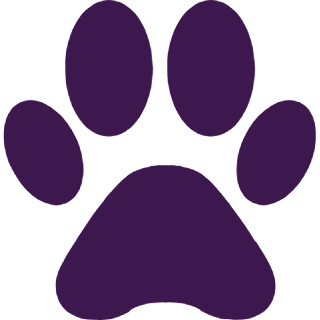
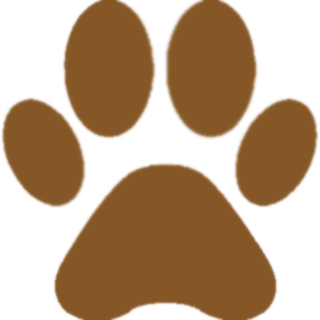
ADD: localizacao , Faixa, Services components

diff --git a/src/components/Servicos/index.jsx b/src/components/Servicos/index.jsx
@@ -1,0 +1,58 @@
+import banho from "../../assets/banho.png";
+import creche from "../../assets/creche.png";
+import dogwalker from "../../assets/dogwalker.png";
+import loja from "../../assets/loja.png";
+import veterinario from "../../assets/veterinario.png";
+import Styles from "./Servicos.module.css";
+const Servico = () => {
+  return (
+    <div className="padding">
+      <h3>Alguns dos nossos serviços</h3>
+
+      <div className={Styles.boxServicos}>
+        <ul type="circle">
+          <li>
+            <span className="destaque">Itens para seu animal de estimação</span>
+            : Descubra nossa seleção de alta qualidade com alimentos nutritivos,
+            brinquedos interativos e acessórios sofisticados em nossa loja.
+          </li>
+          <li>
+            <span className="destaque">Spa para pets</span>: Desfrute de
+            serviços como banho, hidratação, tosa higiênica, tosa especializada
+            para diferentes raças e outros tratamentos, realizados por
+            especialistas em parceria conosco.
+          </li>
+          <li>
+            <span className="destaque">Serviços veterinários 24 horas</span>:
+            Garantimos o bem-estar do seu fiel companheiro com consultas, exames
+            e vacinação administrados por profissionais veterinários
+            especializados.
+          </li>
+          <li>
+            <span className="destaque">Passeios com especialistas caninos</span>
+            : Se você está sem tempo para levar seu cachorro para passearda nós
+            da pet club não só garantem caminhadas, mas também trabalham na
+            correção de comportamentos e no ensino de comandos básicos.
+          </li>
+          <li>
+            <span className="destaque">Creche para pets</span>: Uma solução
+            personalizada para quem prefere não deixar seu animal de estimação
+            sozinho em casa durante o dia. Oferecemos diversão, cuidados
+            especiais e muito carinho!
+          </li>
+        </ul>
+      </div>
+
+      <div className={Styles.boxServicosImg}>
+        <img src={banho} alt="Banho e Tosa" title="Banho & Tosa" />
+
+        <img src={veterinario} alt="Veterinários" title="Veterinário 24h" />
+        <img src={dogwalker} alt="Passeio" title="Dog Walker" />
+        <img src={creche} alt="Creche" title="Creche Pet" />
+        <img src={loja} alt="loja" title="Produtos para seu pet Pet" />
+      </div>
+    </div>
+  );
+};
+
+export default Servico;

diff --git a/src/components/FaixaRoxa/index.jsx b/src/components/FaixaRoxa/index.jsx
@@ -1,0 +1,26 @@
+import FacebookIcon from "@mui/icons-material/Facebook";
+import InstagramIcon from "@mui/icons-material/Instagram";
+import WhatsAppIcon from "@mui/icons-material/WhatsApp";
+import Styles from "./FaixaRoxa.module.css";
+
+const FaixaRoxa = ({ frase }) => {
+  return (
+    <div className={`padding ${Styles.faixa}`}>
+      <p className={Styles.textFaixa}>{frase}</p>
+
+      <div className={Styles.redesSociais}>
+        <a href="https://www.facebook.com/" target="_blank">
+          <FacebookIcon fontSize="large" className={Styles.icones} />
+        </a>
+        <a href="https://www.instagram.com/" target="_blank">
+          <InstagramIcon fontSize="large" className={Styles.icones} />
+        </a>
+        <a href="https://wa.me/5521999999999/?text=Olá" target="_blank">
+          <WhatsAppIcon fontSize="large" className={Styles.icones} />
+        </a>
+      </div>
+    </div>
+  );
+};
+
+export default FaixaRoxa;

diff --git a/src/components/BannerTop/bannerTop.module.css b/src/components/BannerTop/bannerTop.module.css
@@ -22,6 +22,9 @@
   margin: 0 0 5px 0;
   text-align: center;
 }
+.nomePetShop img {
+  color: red;
+}
 .containerNomeLogo .sloganPetShop {
   font-size: 0.875rem;
   font-style: italic;
@@ -47,10 +50,6 @@
   margin: 0 0 40px;
 }
 
-
-
-
-
 .linkFaleConosco {
   min-width: 200px;
   padding: 10px 25px;
@@ -58,14 +57,14 @@
   background-color: var(--main-color);
   border-radius: 10px;
   margin: 0 auto;
-  color: var(--white-color); 
+  color: var(--white-color);
 
   display: flex;
   align-items: center;
   justify-content: center;
   gap: 5px;
 }
-.linkFaleConosco:active{
+.linkFaleConosco:active {
   background-color: var(--secondary-color);
 }
 @media screen and (max-width: 360px) {
@@ -76,11 +75,9 @@
   .containerNomeLogo img {
     width: 25px;
   }
-
 }
 @media screen and (max-width: 720px) {
   .tituloTopo {
     font-size: 6vw;
-
   }
 }

diff --git a/src/Home.jsx b/src/Home.jsx
@@ -1,0 +1,35 @@
+import BannerTopo from "./components/BannerTop";
+import Bottom from "./components/Bottom";
+import FaixaRoxa from "./components/FaixaRoxa";
+import Localizacao from "./components/Localizacao";
+import Servicos from "./components/Servicos";
+
+function Home() {
+  return (
+    <>
+      <BannerTopo />
+      <FaixaRoxa
+        frase={
+          <>
+            No <span className="destaque">Pet Club Aconchego</span>, cuidar dos
+            pets é nossa maior vocação.
+          </>
+        }
+      />
+      <Servicos />
+
+      <FaixaRoxa
+        frase={
+          <>
+            No <span className="destaque">Pet Club Aconchego</span>, garantimos
+            conforto e elegância para todos os pets.
+          </>
+        }
+      />
+      <Localizacao />
+      <Bottom />
+    </>
+  );
+}
+
+export default Home;

diff --git a/src/components/Localizacao/index.jsx b/src/components/Localizacao/index.jsx
@@ -1,0 +1,21 @@
+import Styles from "./Localizacao.module.css";
+
+const Localizacao = () => {
+  return (
+    <div className={`container ${Styles.ondeEstamos}`}>
+      <h3>Onde estamos</h3>
+      <p>Se ficou interessado em nossos serviços, venha nos conhecer</p>
+
+      <iframe
+        src="https://www.google.com/maps/embed?pb=!1m18!1m12!1m3!1d3984.0019614913763!2d-60.02526952457674!3d-3.094136296881477!2m3!1f0!2f0!3f0!3m2!1i1024!2i768!4f13.1!3m3!1m2!1s0x926c1a9d0a85c941%3A0x1b2f0d7a0b492315!2sAmazonas%20Shopping!5e0!3m2!1spt-BR!2sbr!4v1718412137372!5m2!1spt-BR!2sbr"
+        width="600"
+        height="450"
+        allowfullscreen=""
+        loading="lazy"
+        referrerPolicy="no-referrer-when-downgrade"
+      ></iframe>
+    </div>
+  );
+};
+
+export default Localizacao;

diff --git a/src/components/Localizacao/Localizacao.module.css b/src/components/Localizacao/Localizacao.module.css
@@ -1,0 +1,28 @@
+.ondeEstamos {
+  text-align: center;
+  max-width: 100%;
+  margin: 0 auto;
+}
+.ondeEstamos p {
+  color: var(--main-color);
+  font-size: 20px;
+  margin: 0 0 45px;
+}
+.ondeEstamos iframe {
+  width: 100%;
+  max-width: 1024px;
+  height: 450px;
+  border-radius: 10px;
+  border: none;
+  /* border: 1px solid var(--main-color); */
+  box-shadow: 0 0 50px 1px  #00000032;
+}
+
+
+
+
+@media (max-width: 768px) {
+  .ondeEstamos {
+    width: 100%;
+  }
+}

diff --git a/src/components/Servicos/Servicos.module.css b/src/components/Servicos/Servicos.module.css
@@ -1,0 +1,23 @@
+
+.boxServicos {
+  max-width: 800px;
+  color: var(--main-color);
+  margin: 0 auto 50px;
+}
+.boxServicos li {
+  font-size: 20px;
+  margin: 0 0 20px;
+}
+.boxServicosImg {
+  max-width: 800px;
+  margin: 0 auto;
+  display: flex;
+  flex-wrap: wrap;
+  justify-content: space-around;
+  gap: 10px;
+}
+.boxServicosImg img {
+  flex: 1 1 auto;
+  box-shadow: 3px 6px 10px 6px #0000005c;
+  border-radius: 5px;
+}

diff --git a/index.html b/index.html
@@ -8,7 +8,7 @@
     name="description"
     content="Encontre no Pet Club Aconchego tudo o que seu pet precisa! Oferecemos produtos e serviços de primeira linha para garantir o conforto e bem-estar do seu companheiro. Visite-nos hoje mesmo! #PetShop #BemEstarAnimal"
   />
-    <title>Aconchego Pet Club</title>
+    <title>Pet Club</title>
   </head>
   <body>
     <div id="root"></div>

diff --git a/src/components/FaixaRoxa/FaixaRoxa.module.css b/src/components/FaixaRoxa/FaixaRoxa.module.css
@@ -1,0 +1,21 @@
+
+.faixa {
+  background-color: var(--main-color);
+  text-align: center;
+}
+.textFaixa {
+  max-width: 800px;
+  margin: 0 auto 50px;
+  color: #fff;
+  font-size: 40px;
+}
+.redesSociais a {
+  margin: 0 20px;
+}
+.redesSociais img {
+  width: 50px;
+  height: 50px;
+}
+.icones{
+  color: white;
+}

diff --git a/src/main.jsx b/src/main.jsx
@@ -1,10 +1,10 @@
 import React from "react";
 import ReactDOM from "react-dom/client";
-import App from "./App.jsx";
+import Home from "./Home.jsx";
 import "./main.css";
 
 ReactDOM.createRoot(document.getElementById("root")).render(
   <React.StrictMode>
-    <App />
+    <Home />
   </React.StrictMode>
 );

diff --git a/src/components/BannerTop/index.jsx b/src/components/BannerTop/index.jsx
@@ -1,6 +1,6 @@
 import WhatsAppIcon from "@mui/icons-material/WhatsApp";
 import Styles from "./bannerTop.module.css";
-import LogoPatas from "./patas.png";
+import LogoPatas from "./patas.png"
 export const BannerTop = () => {
   return (
     <div className={Styles.bannerTopo}>

diff --git a/src/main.css b/src/main.css
@@ -1,5 +1,5 @@
 :root {
-  --main-color: #3c184e;
+  --main-color: #855726;
   --secondary-color: #110616;
   --white-color: #fff;
 }
@@ -25,4 +25,7 @@ h3 {
   color: var(--main-color);
   text-align: center;
   margin: 0 0 45px;
+}
+.padding{
+  padding: 120px 80px;
 }
